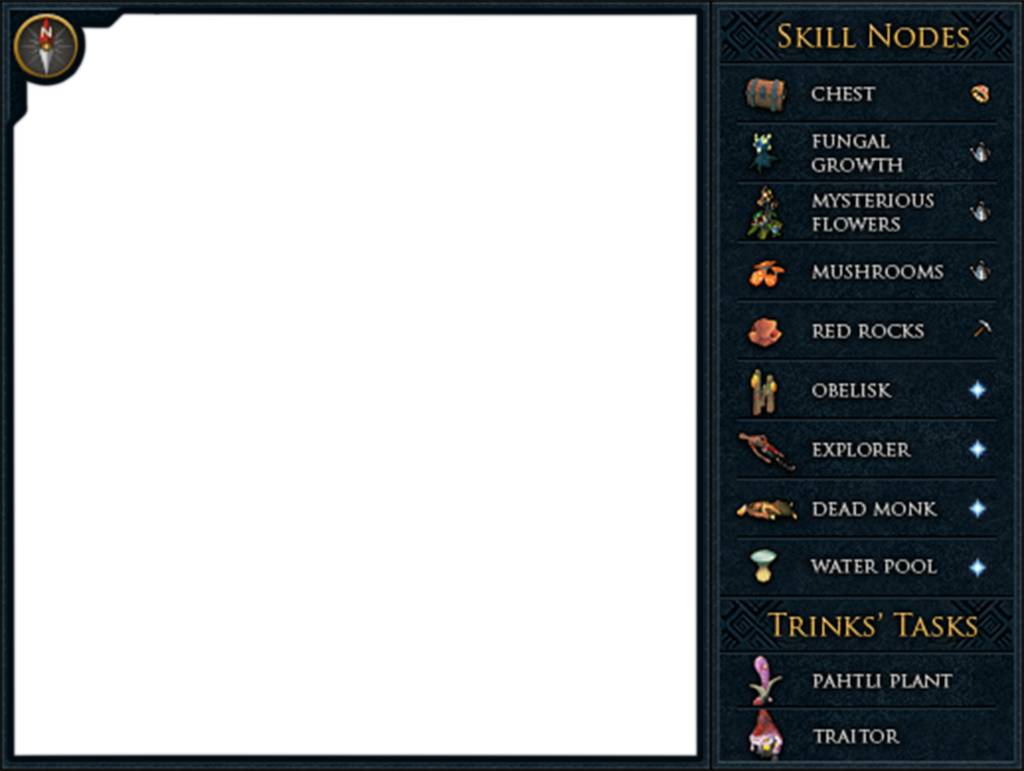
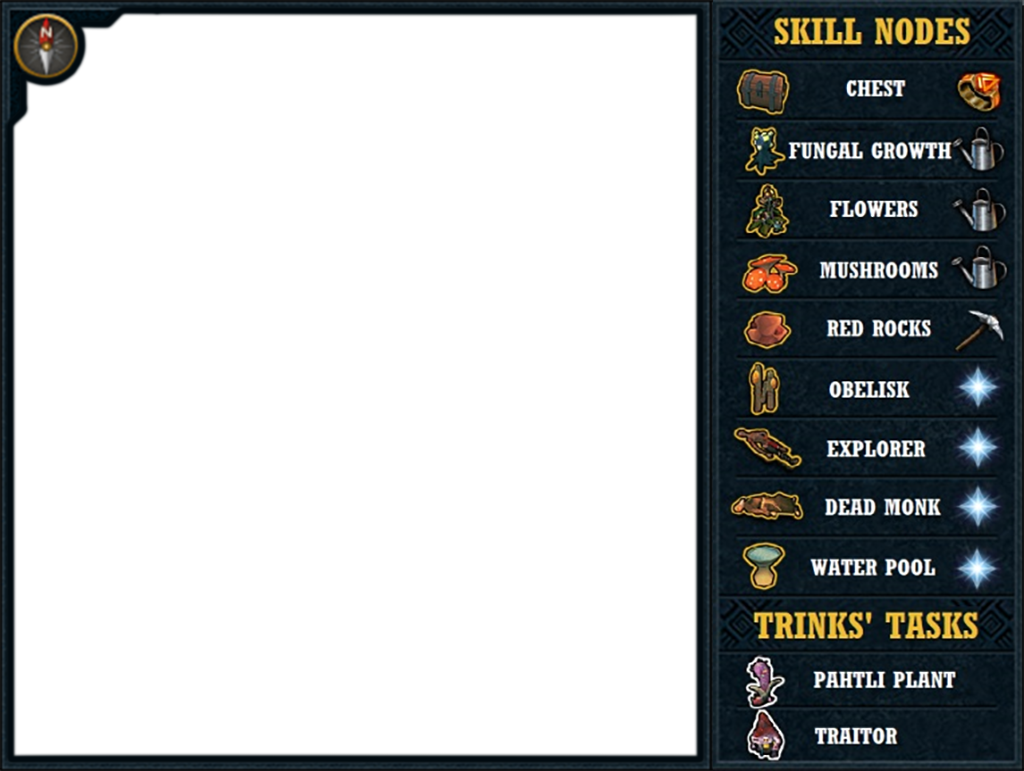
New Legend_Overlay.PNG by request of u/NemiQueen. Minor code changes.

Changed region(s): [[0.6875, 0.0, 1.0, 0.9961]]

diff --git a/src/r/nemiforest/map/render/TextContainer.java b/src/r/nemiforest/map/render/TextContainer.java
@@ -13,9 +13,9 @@ import java.util.ArrayList;
  * The class is also responsible for rendering it and maintaining a image to buffer this.
  */
 public class TextContainer {
-    private BufferedImage bi;
-    private ArrayList<TextElement> elements;
-    private Font font = getFont();
+    private final BufferedImage bi;
+    private final ArrayList<TextElement> elements;
+    private final Font font = getFont();
 
     public TextContainer(int width, int height){
         this.bi = new BufferedImage(width,height,BufferedImage.TYPE_INT_ARGB);

diff --git a/src/r/nemiforest/map/render/RouteElement.java b/src/r/nemiforest/map/render/RouteElement.java
@@ -16,7 +16,7 @@ public class RouteElement {
         }
     }
 
-    private ArrayList<Point> positions;
+    private final ArrayList<Point> positions;
 
     public RouteElement(){
         this.positions = new ArrayList<>();
